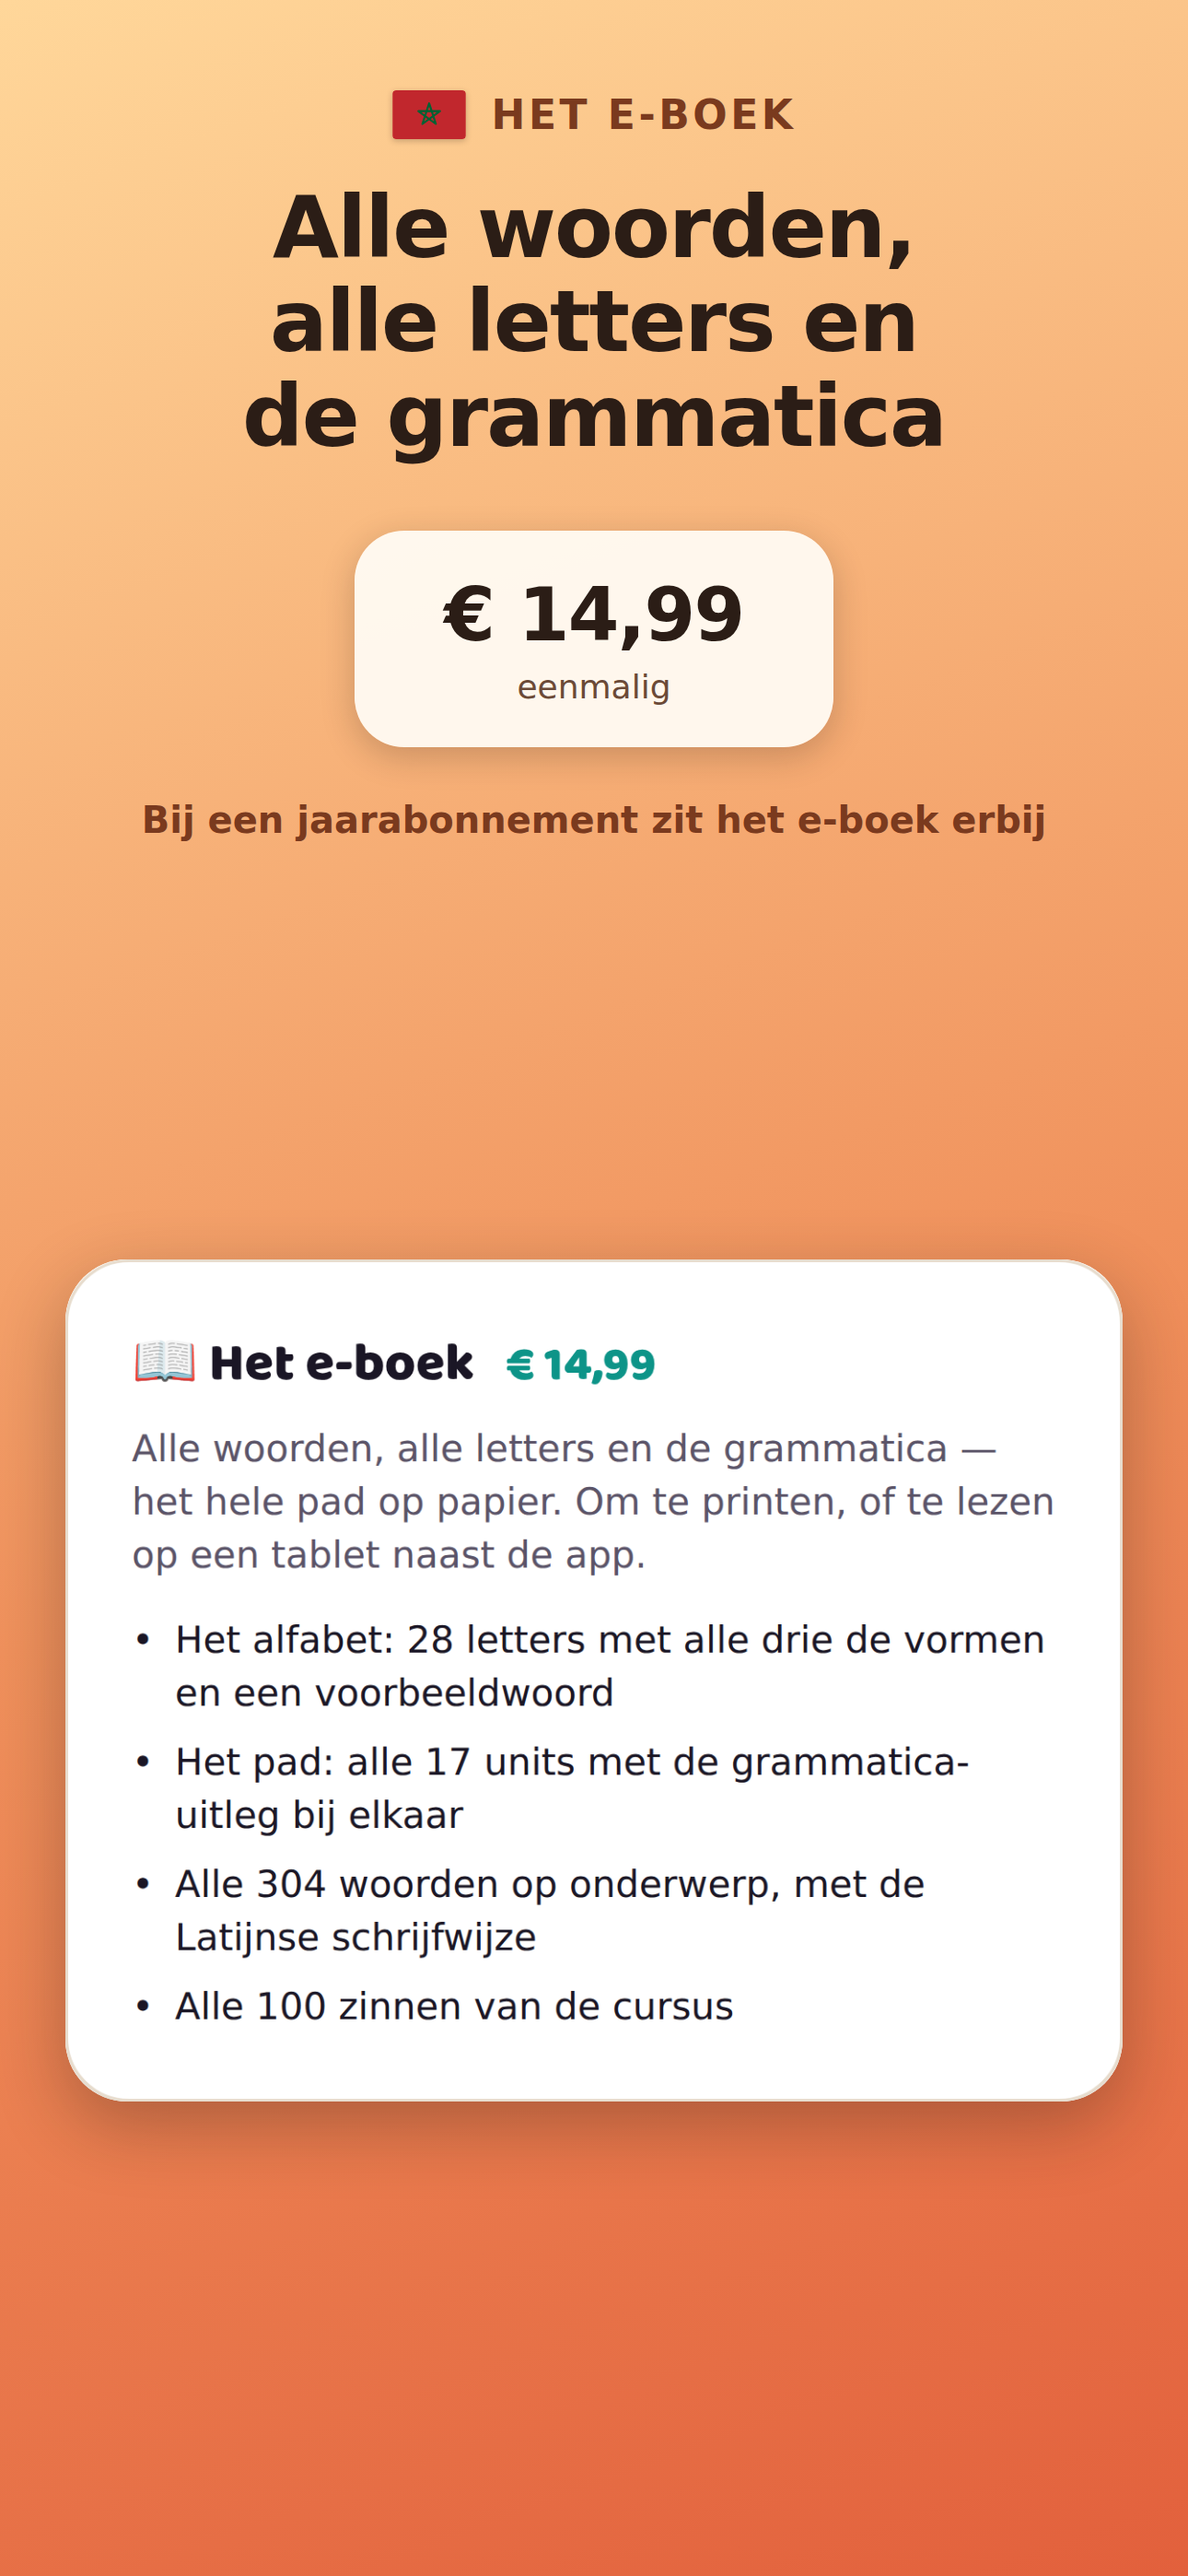
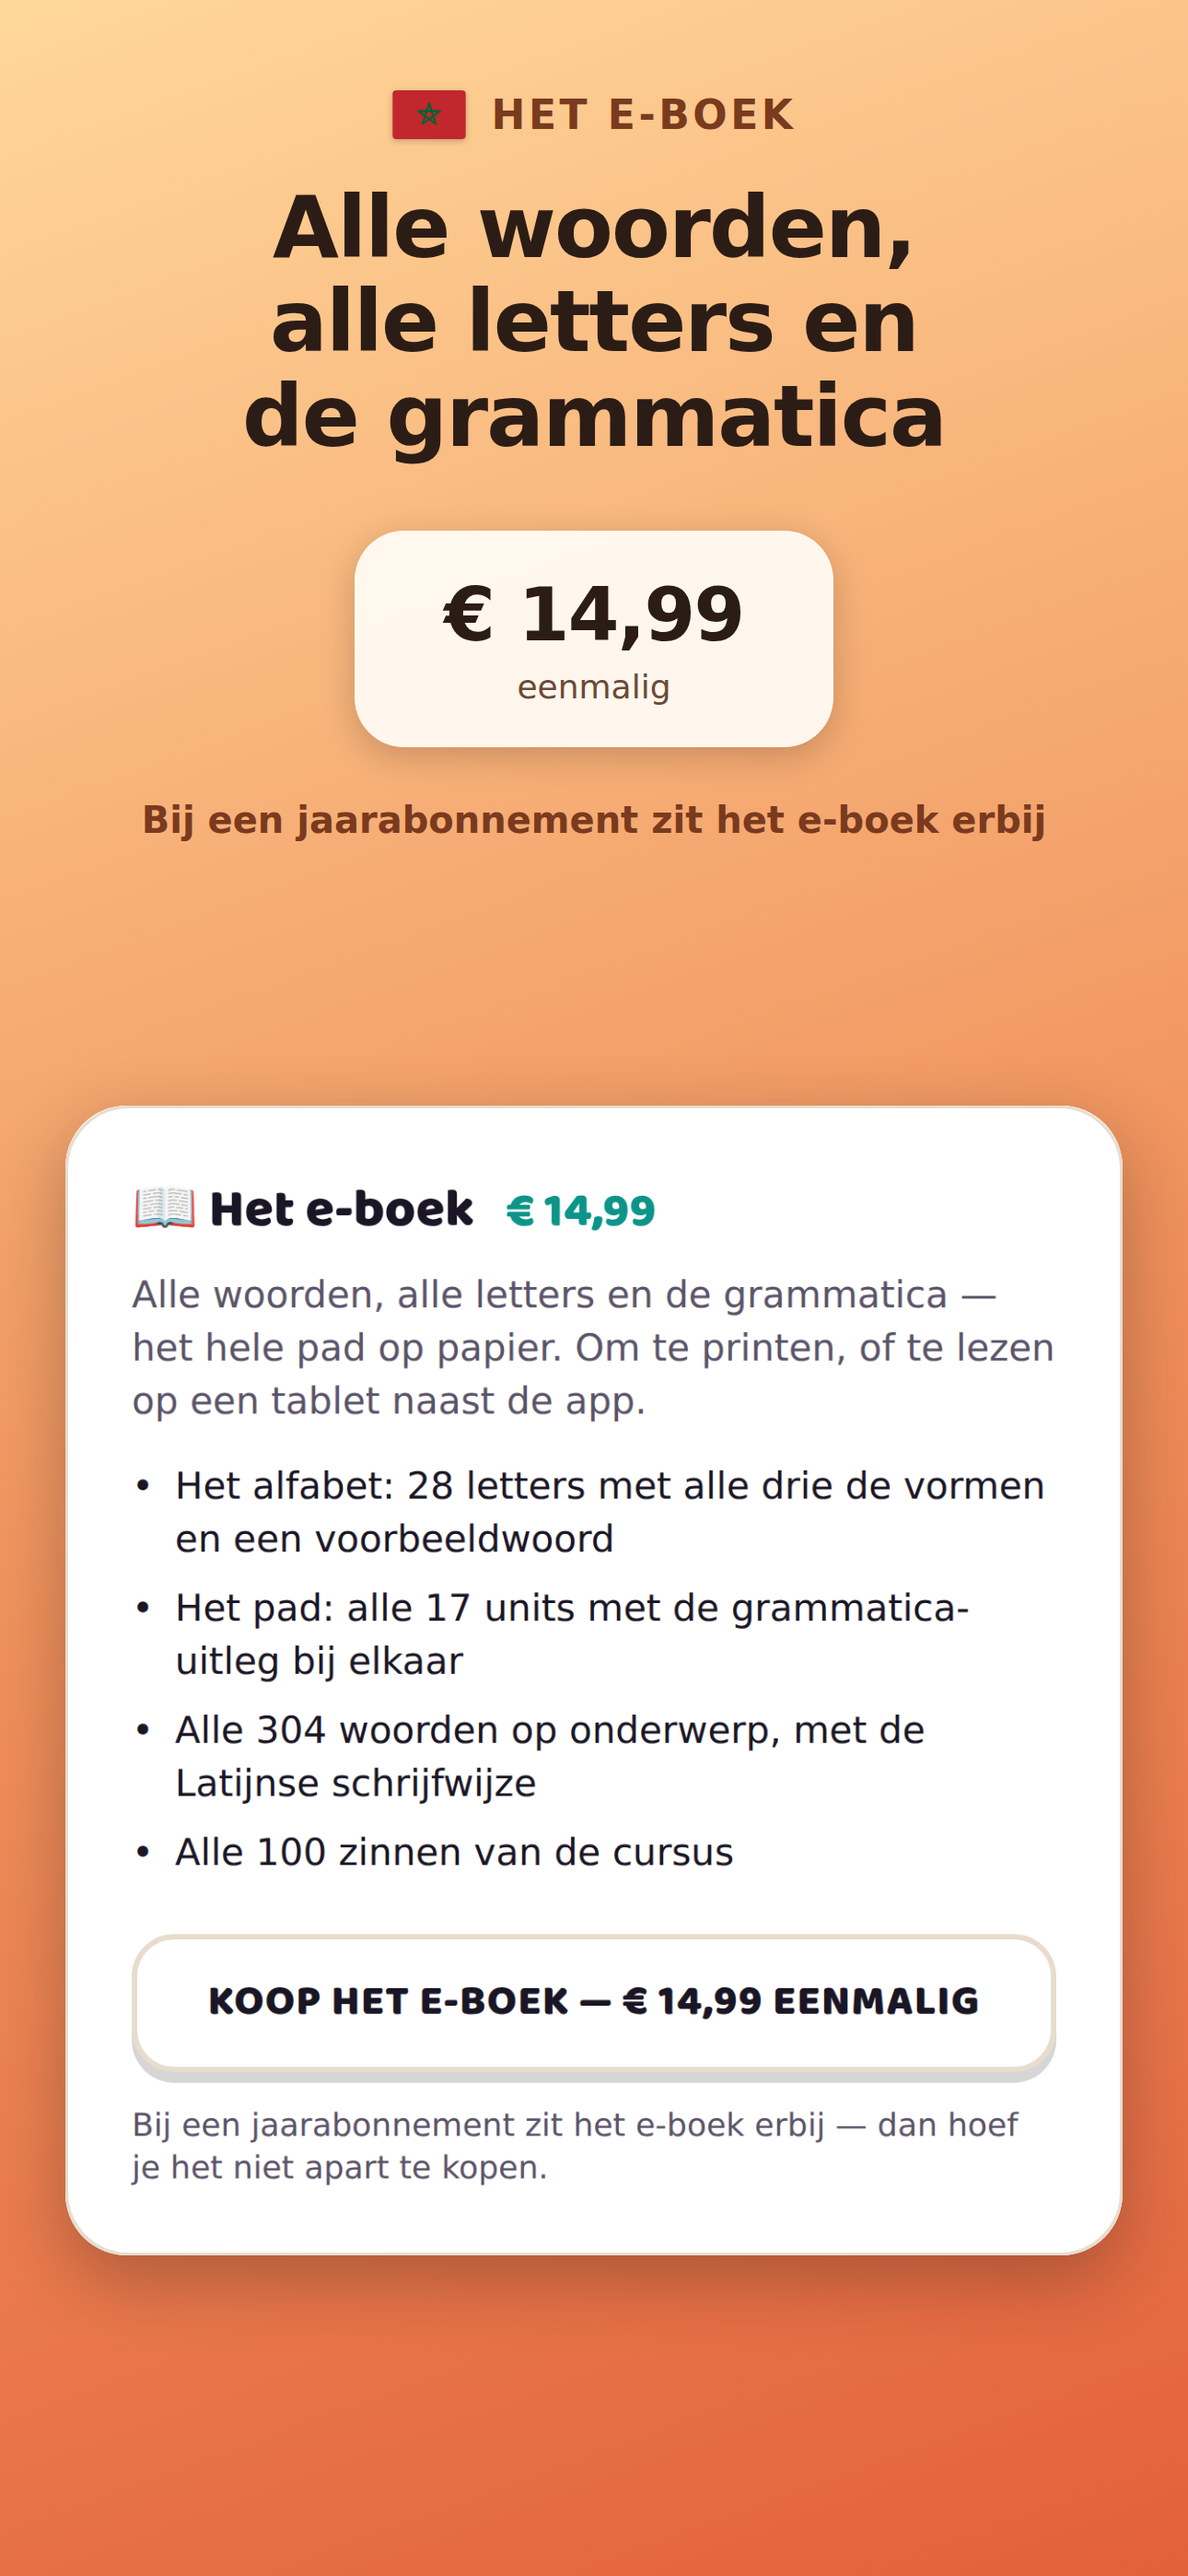
De review-screenshot toonde een kapot koopscherm
Twee dingen, allebei aan het licht gekomen door in App Store Connect te
kijken in plaats van het aan te nemen.

Ten eerste stond er in vier bestanden dat Apple afwees omdat er
schermafdrukken in het beeldveld stonden. Dat klopt niet. Het veld heet
"Image (Optional)", 1024x1024, boven App Store Promotion, en daar stond bij
alle drie de aankopen het app-icoon. Apples zin "should not be confused with
your app icon" was dus letterlijk bedoeld, en "unique" ook. Dat is
rechtgezet in make-iap.mjs, iapbeelden.test.ts, STAND.md en de twee README's.

De drie getekende beelden blijven goed: ze waren al opnieuw getekend rond
Fnek juist omdat de eerste versie te veel op het icoon leek.

Ten tweede: make-reviewshot.mjs haalt zijn woorden en prijzen uit de app
zelf, en het koopscherm is deze week veranderd. De opnames stonden nog op
20 september. Opnieuw gemaakt tonen ze nu de volgorde die richtlijn 3.1.2(c)
vraagt en geen Google Play meer.

Maar er stond ook een foutregel waar de koopknop hoort: "De winkel is nu
niet te bereiken." Het script verborg die regel met
`[data-web-only] { display: none }`, en dat attribuut is uit Unlock.tsx
verdwenen. Ik had erbij geschreven dat die markering niets deed. In de app
niet, maar dit script hing eraan, en het brak dus stil.

Verbergen was sowieso het verkeerde antwoord: een recensent moet zien waar
hij zou betalen. Het script zet nu een winkel neer die bestaat, zodat de
knop er echt staat, en het stopt met afsluitcode 1 als de foutregel toch
[…]

Changed region(s): [[0.031, 0.4045, 0.9612, 0.9024]]

diff --git a/darija-kids/src/site/iapbeelden.test.ts b/darija-kids/src/site/iapbeelden.test.ts
@@ -6,9 +6,9 @@ import { EBOOK, PRODUCTS } from '../engine/billing'
 /**
  * De promotieafbeeldingen van de aankopen, tegen Apples eigen eisen.
  *
- * Apple wees versie 1.0 (build 5) hierop af. Er stonden schermafdrukken van
- * 1290×2796 waar 1024×1024 hoorde te staan, en dezelfde twee voor drie
- * aankopen. Hun tekst:
+ * Apple wees versie 1.0 (build 5) hierop af. Bij alle drie de aankopen stond
+ * het app-icoon in het veld "Image (Optional)" — dus niet uniek, en precies
+ * het ene beeld dat er niet mag staan. Hun tekst:
  *
  *   "Each promoted in-app purchase requires a unique promotional image.
  *    Promotional images should not be screenshots, and should not be confused

diff --git a/darija-kids/store/iap-schermen/LEES-DIT-EERST.md b/darija-kids/store/iap-schermen/LEES-DIT-EERST.md
@@ -1,16 +1,23 @@
 # Deze twee zijn géén promotieafbeeldingen
 
-Het zijn schermafdrukken van 1290×2796. Ze zijn in App Store Connect bij
-**Promotional Image** beland, en dáárop wees Apple versie 1.0 (build 5) af:
+Het zijn schermafdrukken van 1290×2796 van het `/volledig`-scherm. Waar ze
+ooit voor gemaakt zijn is niet meer na te gaan; wat er nu voor in de plaats
+staat is duidelijk genoeg:
 
-> Each promoted in-app purchase requires a unique promotional image.
-> Promotional images should not be screenshots, and should not be confused
-> with your app icon. [...] PNG or high-quality JPEG at 1024 x 1024 pixels.
+- **Review Screenshot** — het veld onder *Review Information* bij elke
+  aankoop, waarmee je de beoordelaar laat zien waar de aankoop in de app zit.
+  Dat hóórt een schermafdruk te zijn. Ze staan in `store/review-screenshot/`
+  en komen uit `npm run reviewshot`. Die haalt zijn woorden en prijzen uit de
+  app zelf, dus na een wijziging aan het koopscherm moet hij opnieuw.
+- **Image (Optional)** — het vierkante veld van 1024×1024 boven *App Store
+  Promotion*. Daar hoort géén schermafdruk en ook niet het app-icoon; dat
+  laatste stond er, en daarop wees Apple versie 1.0 (build 5) af:
 
-Twee dingen mis tegelijk: het is een schermafdruk, en het is niet vierkant.
+  > Each promoted in-app purchase requires a unique promotional image.
+  > Promotional images should not be screenshots, and should not be confused
+  > with your app icon. [...] PNG or high-quality JPEG at 1024 x 1024 pixels.
 
-De echte promotieafbeeldingen staan in **`store/iap-beelden/`** en worden
-gemaakt met `npm run iapbeeld`. Eén per aankoop, 1024×1024, getekend.
+  Ze staan in `store/iap-beelden/` en komen uit `npm run iapbeeld`.
 
-Schermafbeeldingen voor de winkel zelf — dus voor de app, niet voor een
+Schermafbeeldingen voor de winkelpagina van de app zelf — dus niet voor een
 aankoop — staan in `store/screenshots/` en komen uit `npm run screenshots`.

diff --git a/darija-kids/docs/STAND.md b/darija-kids/docs/STAND.md
@@ -19,7 +19,7 @@ nog" zonder dat je drie andere bestanden hoeft te lezen.
 |---|---|---|
 | **2.3.10** Accurate Metadata | de App Store-beschrijving noemde Google Play | **gerepareerd**, zes talen — plus vier schermen in de app zelf |
 | **3.1.2(c)** Subscriptions | de omrekening naar een maand stond duidelijker dan het afgeschreven bedrag | **gerepareerd**, zes talen, nagemeten op de iPad waar Apple keek |
-| **2.3.2** Accurate Metadata | de promotieafbeelding is een schermafdruk, en bij elk product dezelfde | **gerepareerd** — `npm run iapbeeld` maakt er drie |
+| **2.3.2** Accurate Metadata | bij alle drie de aankopen stond het app-icoon in het beeldveld | **gerepareerd** — `npm run iapbeeld` maakt er drie |
 
 #### 2.3.10 zat op meer plekken dan Apple noemde
 
@@ -53,7 +53,9 @@ jaarbedrag staat erboven.
 
 #### 2.3.2: drie eigen promotieafbeeldingen
 
-Er stonden twee schermafdrukken van 1290×2796 voor drie aankopen. `npm run
+Het veld heet in App Store Connect **Image (Optional)**, 1024×1024, boven
+*App Store Promotion*. Daar stond bij alle drie de aankopen het app-icoon —
+dus niet uniek, en precies het ene beeld dat Apple uitsluit. `npm run
 iapbeeld` maakt er drie van 1024×1024, getekend, elk anders, zonder tekst en
 met de hoek linksonder leeg — daar legt Apple zelf de prijs overheen. Ze staan
 in `store/iap-beelden/` en heten naar hun product-id.

diff --git a/darija-kids/store/iap-beelden/README.md b/darija-kids/store/iap-beelden/README.md
@@ -2,7 +2,9 @@
 
 Gemaakt met `npm run iapbeeld`. Niet met de hand bijwerken.
 
-Apple wees versie 1.0 (build 5) af omdat hier schermafdrukken stonden:
+Apple wees versie 1.0 (build 5) af omdat bij alle drie de aankopen het
+app-icoon in dit veld stond. Het heet in App Store Connect "Image
+(Optional)" en zit boven *App Store Promotion*.
 
 > Each promoted in-app purchase requires a unique promotional image.
 > Promotional images should not be screenshots, and should not be confused
